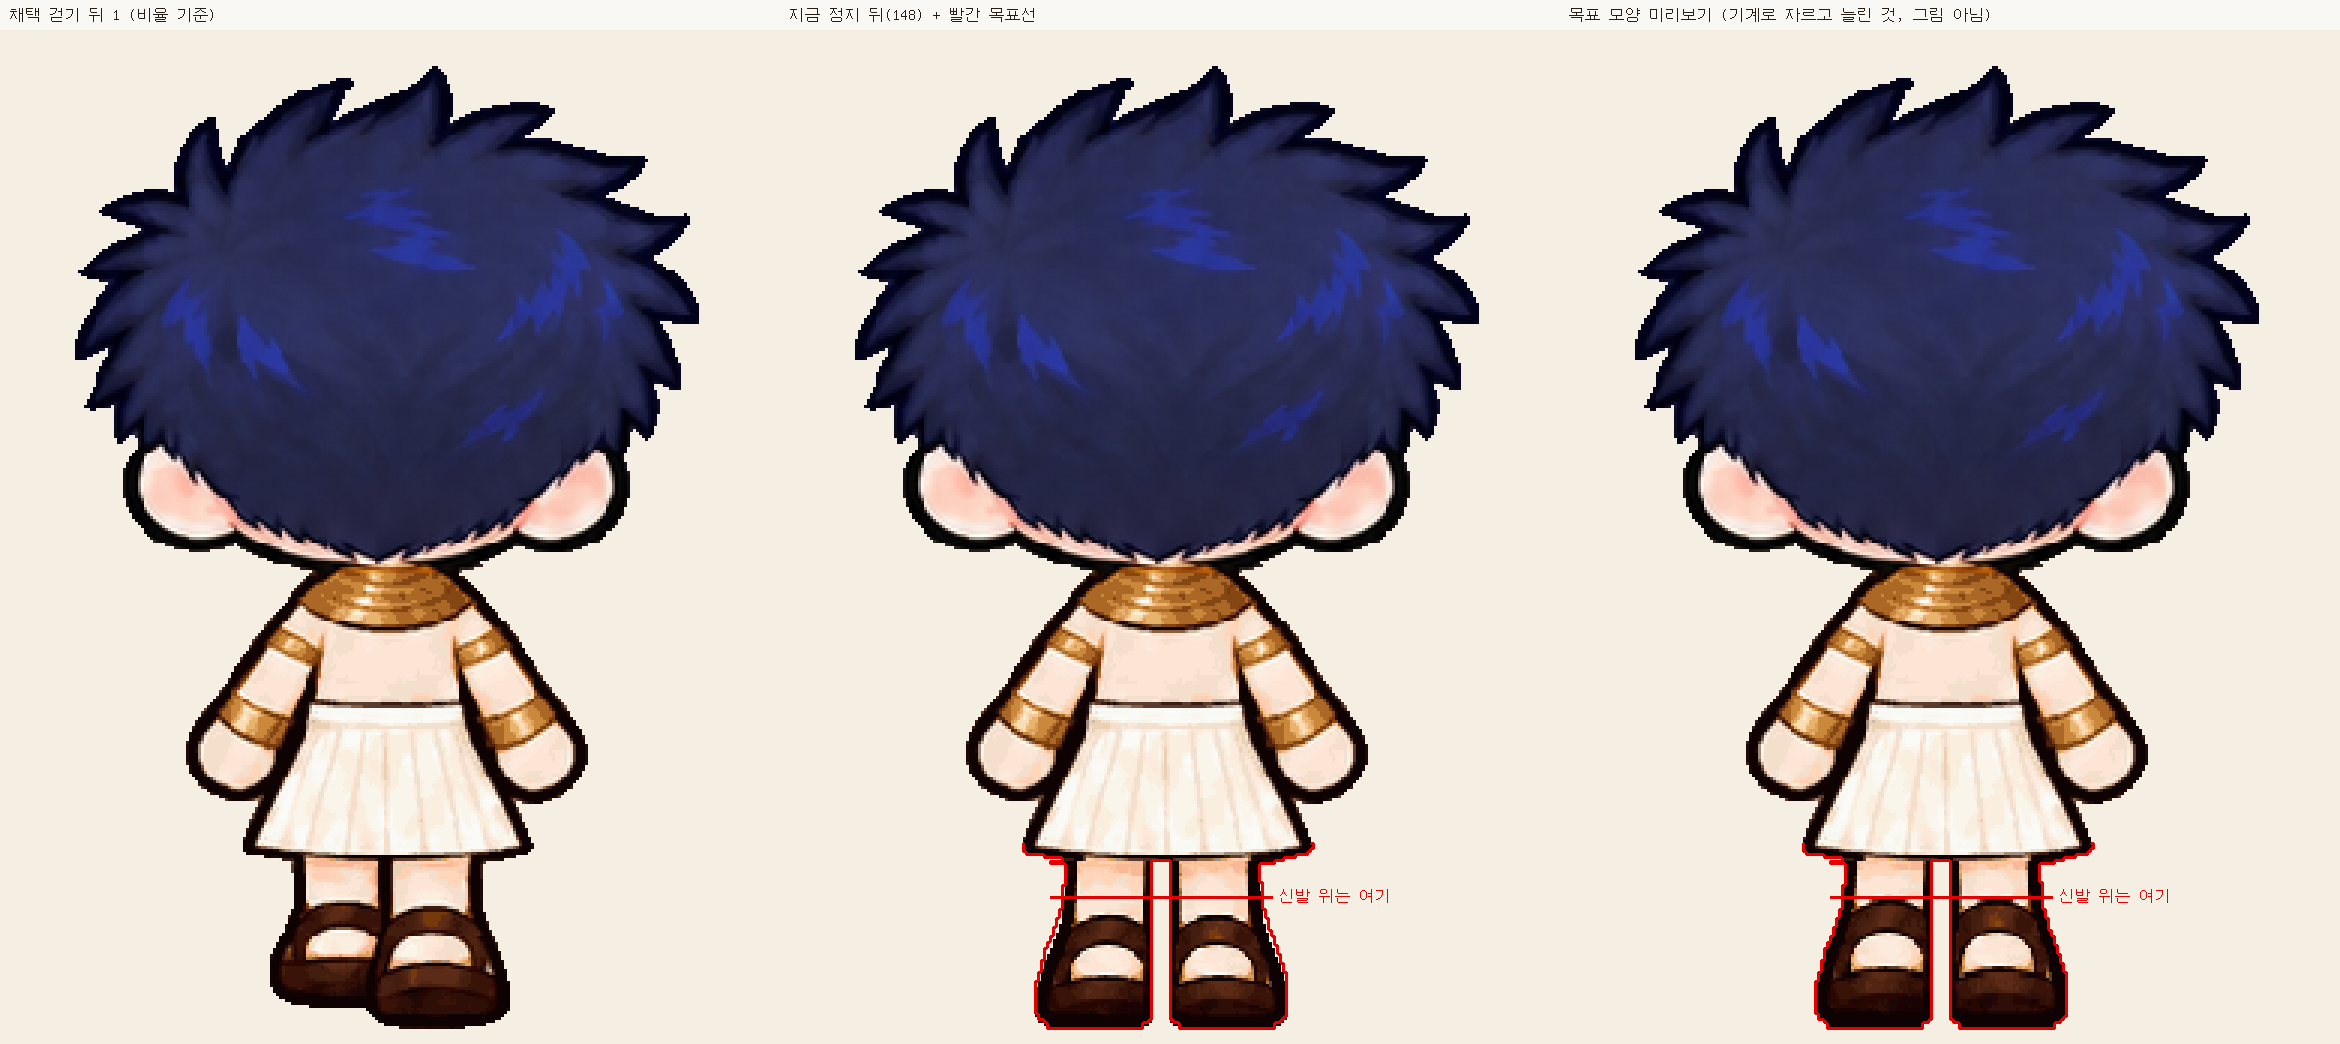
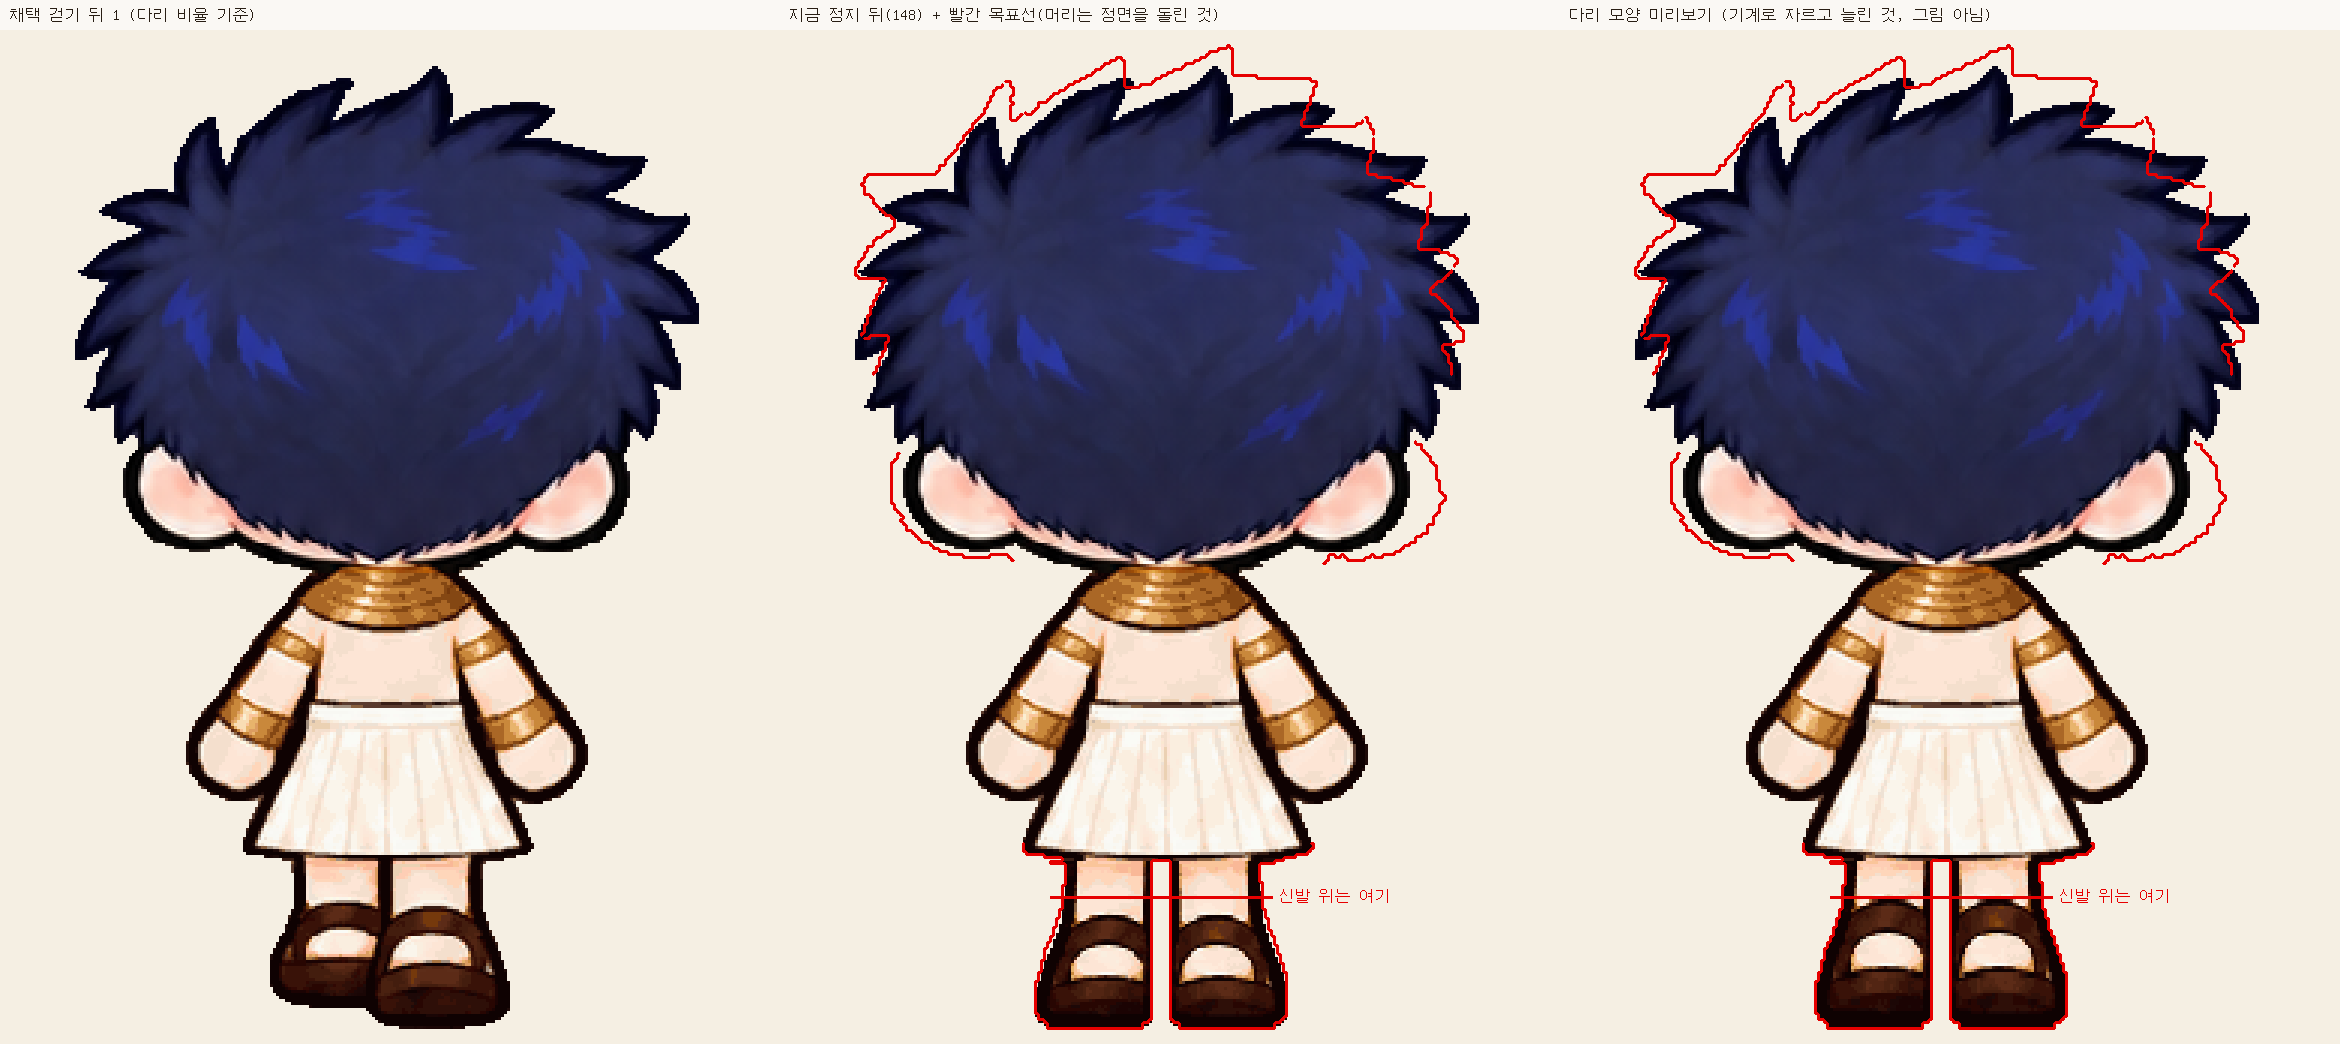
호루스 뒤 머리 목표선: 정면 사용자 머리를 돌려 목걸이로 맞춤, 정지·걷기 뒤 3장
Claude-Session: https://claude.ai/code/session_01VEprA6JeTcQVX6tKD4oAcT

diff --git a/tools/art/horus-idle-target.py b/tools/art/horus-idle-target.py
@@ -69,6 +69,58 @@ def lower_body_back(path):
             'legRows': y - legs, 'sandalRows': bottom - y + 1}, im
 
 
+def collar(rgba):
+    # the gold collar's top row and middle: the same on the front and the back, so it anchors one to the other
+    a = rgba[..., 3] > 128
+    h, s, v = ch.hsv(rgba[..., :3].astype(float) / 255)
+    gold = (h > 0.08) & (h < 0.15) & (s > 0.45) & (v > 0.35) & a
+    ys = np.nonzero(a.any(1))[0]; top, H = ys.min(), ys.max() - ys.min() + 1
+    for y in range(int(top + 0.55 * H), int(top + 0.75 * H)):  # below the eyes, which are gold too
+        if gold[y].sum() > 15:
+            xs = np.nonzero(gold[y:y + 6].any(0))[0]
+            return y, (xs.min() + xs.max()) / 2
+    raise SystemExit('목걸이를 못 찾음')
+
+
+def shift(mask, dy, dx):
+    out = np.zeros_like(mask)
+    H, W = mask.shape
+    ys, xs = np.nonzero(mask)
+    ys = ys + dy; xs = xs + dx
+    ok = (ys >= 0) & (ys < H) & (xs >= 0) & (xs < W)
+    out[ys[ok], xs[ok]] = True
+    return out
+
+
+def back_head(front_path, back_rgba):
+    # the user's front head, hair and ears, turned round: mirrored about the collar's middle and set on the back
+    # picture by the collar's top. From behind there is no hairline; the outer outline and the ears carry over.
+    g = ch.guide()
+    rgb, b = ch.load(front_path)
+    e, _, _ = ch.eyes(rgb, b)
+    head, _ = ch.place(g['head'], g['eyes'], e, b.shape)
+    hair, _ = ch.place(g['sil'], g['eyes'], e, b.shape)
+    ears, _ = ch.place(g['ears'], g['eyes'], e, b.shape)
+    fy, fx = collar(np.asarray(Image.open(front_path).convert('RGBA')))
+    by, bx = collar(back_rgba)
+    W = b.shape[1]
+    s_ = int(round(fx + bx - (W - 1)))
+    turn = lambda m: shift(m[:, ::-1], int(by - fy), s_)
+    return turn(head), turn(hair), turn(ears)
+
+
+def head_offset(ref, rgba, cut):
+    # how far a walk frame's head sits from the reference's: best overlap of the opaque head above the collar
+    a = ref[..., 3] > 128; b = rgba[..., 3] > 128
+    a = a[:cut]; best = (0, 0, -1)
+    for dy in range(-8, 9):
+        for dx in range(-10, 11):
+            m = shift(b[:cut + 10], dy, dx)[:cut]
+            sc = (a & m).sum() - 0.5 * (a ^ m).sum()
+            if sc > best[2]: best = (dy, dx, sc)
+    return best[0], best[1]
+
+
 def back(o):
     I, idle = lower_body_back(o.idle)
     W, walk = lower_body_back(o.walk)
@@ -88,18 +140,28 @@ def back(o):
     k = 3
     st = I['legsStart'] + legs_n
     y0, y1 = I['top'] - 12, I['sole'] + 6
-    def tile(rgba, line):
+    front = os.path.join(ART, 'review-horus-idle-v156', 'horus-front.png')
+    bhead, bhair, bears = back_head(front, idle)
+    Image.fromarray((bhead * 255).astype(np.uint8)).save(os.path.join(OUT, 'idle-back-head-mask.png'))
+    kb = lambda m: np.kron(m, np.ones((k, k), bool))
+    def head_line(hd, hr, er):
+        # the hair's outer outline and the ears' outline; the nape is left as drawn
+        hd, hr, er = kb(hd), kb(hr), kb(er)
+        return ch.edge(hd) & (ch.grow(hr, k) & ~er | er & ~ch.grow(hr, k))
+    def tile(rgba, line, heads_=None):
         base = Image.new('RGBA', (rgba.shape[1], rgba.shape[0]), (245, 239, 227, 255))
         base.alpha_composite(Image.fromarray(rgba))
         big = np.asarray(base.convert('RGB').resize((rgba.shape[1] * k, rgba.shape[0] * k), Image.NEAREST)).copy()
         if line:
-            # the lower body only: from the kilt down; everything above stays as drawn
-            m = np.kron(body, np.ones((k, k), bool)); ln = ch.edge(m)
+            # the lower body from the kilt down, and the head turned round from the user's front
+            m = kb(body); ln = ch.edge(m)
             ln[:(I['kiltEnd'] - 4) * k] = False
             big[ch.grow(ln, 1)] = (230, 0, 0)
+        if heads_ is not None:
+            big[ch.grow(head_line(*heads_), 1)] = (230, 0, 0)
         return Image.fromarray(big[y0 * k:y1 * k, 50 * k:310 * k])
-    tiles = [tile(walk, False), tile(idle, True), tile(new, True)]
-    heads = ['채택 걷기 뒤 1 (비율 기준)', '지금 정지 뒤(148) + 빨간 목표선', '목표 모양 미리보기 (기계로 자르고 늘린 것, 그림 아님)']
+    tiles = [tile(walk, False), tile(idle, True, (bhead, bhair, bears)), tile(new, True, (bhead, bhair, bears))]
+    heads = ['채택 걷기 뒤 1 (다리 비율 기준)', '지금 정지 뒤(148) + 빨간 목표선(머리는 정면을 돌린 것)', '다리 모양 미리보기 (기계로 자르고 늘린 것, 그림 아님)']
     tw, th = tiles[0].size
     sheet = Image.new('RGB', (tw * 3, th + 30), (250, 248, 244))
     d = ImageDraw.Draw(sheet)
@@ -112,6 +174,18 @@ def back(o):
             d.line([(x0, y), (x1, y)], fill=(230, 0, 0), width=3)
             d.text((x1 + 6, y - 10), '신발 위는 여기', fill=(230, 0, 0), font=ch.FONT)
     sheet.save(os.path.join(OUT, 'idle-back-target.png'))
+    cut = collar(idle)[0]
+    frames = []
+    for i in range(3):
+        wp = os.path.join(ch.WALK, f'horus-back-{i}.png')
+        wr = np.asarray(Image.open(wp).convert('RGBA'))
+        dy, dx = head_offset(idle, wr, cut)
+        hd, hr, er = (shift(m, -dy, -dx) for m in (bhead, bhair, bears))
+        Image.fromarray((hd * 255).astype(np.uint8)).save(os.path.join(OUT, f'walk-back-{i}-head-mask.png'))
+        t = tile(wr, False, (hd, hr, er))
+        t.save(os.path.join(OUT, f'walk-back-{i}-target.png')); frames.append(t)
+    seq = [frames[j] for j in (0, 1, 2, 1)]
+    seq[0].save(os.path.join(OUT, 'walk-back-target.gif'), save_all=True, append_images=seq[1:], duration=360, loop=0)
     info = {'idle': os.path.relpath(o.idle, ch.ROOT), 'walk': os.path.relpath(o.walk, ch.ROOT), 'idleNow': I, 'walkFrame': W,
             'target': {'kiltEnd': I['kiltEnd'], 'legRows': legs_n, 'sandalTop': st, 'sandalRows': sandal_n, 'sole': I['sole']}}
     json.dump(info, open(os.path.join(OUT, 'idle-back-target.json'), 'w'), ensure_ascii=False, indent=1, default=int)

diff --git a/docs/ASTRA-HANDOFF.md b/docs/ASTRA-HANDOFF.md
@@ -99,7 +99,7 @@
 | 긴 회랑5장 | 아트 전부 채택 완료. 적용 대상은5절의139~143번. 게임 적용과 이동·충돌·가림 확인은 오푸스 담당 |
 | 셋소호 정면 정지 선택·GIF | **[150 선택 정면3장](art/chibi-refresh/selected-front-idle-v150/README.md)**: 소망은 사용자가 올린 최종 시안 실제 원본, 세트·호루스는148 정면. 그림 수정 없이 복사하여 채택 걷기와 GIF 구성.149 소망 반려·재사용 금지. 다른 방향 정지의 전체 승인은 별개. 게임 미적용. |
 | 소망 뒤 정지·옷색 / 세트 정면 | [151 검토본](art/chibi-refresh/review-somang-back-v151/README.md). 소망 뒤는 사용자 명시 요청으로 재작화하되 최종 정면 전체 비율·색·도트 기준 유지. 소망 앞뒤 옷색을 걷기·좌우에 맞춤(반대 아님). 세트는 최종 정면 실제 원본을 복사해 GIF 비교. 호루스·걷기·좌우 그대로. 151 채택 대기, 게임 미적용. |
-| 호루스 사용자 수정도 | **155 반려·재사용 금지.** 다리 단축은 **정지 정면만** 해당한다. 채택 걷기 몸·다리·신발·치마 동작은 변경하지 않는다. 먼저 실제 정지 정면 한 장을 보여준다(걷기1을 정지로 제시 금지). 사용자 수정도의 머리 바깥 윤곽을 정확히 맞추고, 이마 높이를 지키면서 짧고 두툼한 헤어에 어울리게 경계를 완성한다. 걷기 적용 때는 원본 각 프레임의 머리 전체 위치·방향·변형과 얼굴/귀/목 접합을 먼저 확인한다. 고정 좌표 헤어 패치 덮어쓰기 금지. 기준 걷기 원본은 `review-trio-walk-v5/walk/`에 보존돼 있다. **머리 모양 기준은 [horus-hair-guide](art/chibi-refresh/horus-hair-guide/README.md)**: 사용자 최종 수정본 `user-edit-final.jpg`(이전 수정본은 대체됨), 걷기 정면 프레임마다 머리가 있어야 할 자리(`targets/`)와 머리 이동 표. 이마선은 위치·높이만 사용자 수정본을 따르고, 선은 새로 그린다: 짧고 두툼한 머리 모양과 어울리게, 호루스 도트식 외곽선·명암으로 머리카락 끝이 이마에 내려오는 갈래를 그린다. 살색만 칠해 경계를 만들거나 사용자 수정본 픽셀을 붙여넣지 않는다. 귀는 양쪽 모두 사용자 그림처럼 윗부분까지 동그랗게 보이고 머리카락과 사이에 틈을 둔다(빨간 선에 포함). 턱·얼굴 아래쪽은 고칠 대상이 아니라 빨간 선이 없다. 턱을 늘리거나 줄이지 않는다. 정면 정지 몸은 `targets/idle-front-target.png`대로 치마 아래 다리를 걷기처럼 9px로 줄이고 신발을 걷기 높이로 맞춘다(치마 끝·발바닥 위치 유지). 뒤 정지도 `targets/idle-back-target.png`대로 다리를 걷기 뒤처럼 12px(지금 18px)로 줄이고 신발을 걷기 높이로 맞춘다. 보내기 전에 `python3 tools/art/check-hair.py <후보>`로 바깥 외곽선과 이마선이 통과하는지 확인한다. 빨간 선에 맞춰 잘라내기만 하면 안 된다: 모양을 맞춘 뒤 머리 바깥 검은 외곽선과 명암을 도트식으로 다시 그린다. 가장자리 외곽선이 80% 미만이면 "외곽선 없음 (잘라만 냄)"으로 실패한다. 귀 외곽선은 사용자 그림처럼 필압 있는 선으로 그린다: 바깥 곡선과 아래쪽은 굵고 머리카락·얼굴 쪽으로 가늘어지는 매끈한 곡선. 1px 계단선, 뾰족한 귀 윗부분, 끊긴 선, 흰 점 금지. check-hair.py가 만드는 `-ears.png`에서 사용자 그림 귀와 나란히 보고 맞춘다. |
+| 호루스 사용자 수정도 | **155 반려·재사용 금지.** 다리 단축은 **정지 정면만** 해당한다. 채택 걷기 몸·다리·신발·치마 동작은 변경하지 않는다. 먼저 실제 정지 정면 한 장을 보여준다(걷기1을 정지로 제시 금지). 사용자 수정도의 머리 바깥 윤곽을 정확히 맞추고, 이마 높이를 지키면서 짧고 두툼한 헤어에 어울리게 경계를 완성한다. 걷기 적용 때는 원본 각 프레임의 머리 전체 위치·방향·변형과 얼굴/귀/목 접합을 먼저 확인한다. 고정 좌표 헤어 패치 덮어쓰기 금지. 기준 걷기 원본은 `review-trio-walk-v5/walk/`에 보존돼 있다. **머리 모양 기준은 [horus-hair-guide](art/chibi-refresh/horus-hair-guide/README.md)**: 사용자 최종 수정본 `user-edit-final.jpg`(이전 수정본은 대체됨), 걷기 정면 프레임마다 머리가 있어야 할 자리(`targets/`)와 머리 이동 표. 이마선은 위치·높이만 사용자 수정본을 따르고, 선은 새로 그린다: 짧고 두툼한 머리 모양과 어울리게, 호루스 도트식 외곽선·명암으로 머리카락 끝이 이마에 내려오는 갈래를 그린다. 살색만 칠해 경계를 만들거나 사용자 수정본 픽셀을 붙여넣지 않는다. 귀는 양쪽 모두 사용자 그림처럼 윗부분까지 동그랗게 보이고 머리카락과 사이에 틈을 둔다(빨간 선에 포함). 턱·얼굴 아래쪽은 고칠 대상이 아니라 빨간 선이 없다. 턱을 늘리거나 줄이지 않는다. 정면 정지 몸은 `targets/idle-front-target.png`대로 치마 아래 다리를 걷기처럼 9px로 줄이고 신발을 걷기 높이로 맞춘다(치마 끝·발바닥 위치 유지). 뒤 정지도 `targets/idle-back-target.png`대로 다리를 걷기 뒤처럼 12px(지금 18px)로 줄이고 신발을 걷기 높이로 맞춘다. 뒤 머리(정지·걷기 3장)는 정면 머리를 돌린 빨간 선(`idle-back-target.png`, `walk-back-<0|1|2>-target.png`)에 맞춰 바깥 외곽선과 귀를 고치고 뒷머리 명암을 도트식으로 다시 그린다. 보내기 전에 `python3 tools/art/check-hair.py <후보>`로 바깥 외곽선과 이마선이 통과하는지 확인한다. 빨간 선에 맞춰 잘라내기만 하면 안 된다: 모양을 맞춘 뒤 머리 바깥 검은 외곽선과 명암을 도트식으로 다시 그린다. 가장자리 외곽선이 80% 미만이면 "외곽선 없음 (잘라만 냄)"으로 실패한다. 귀 외곽선은 사용자 그림처럼 필압 있는 선으로 그린다: 바깥 곡선과 아래쪽은 굵고 머리카락·얼굴 쪽으로 가늘어지는 매끈한 곡선. 1px 계단선, 뾰족한 귀 윗부분, 끊긴 선, 흰 점 금지. check-hair.py가 만드는 `-ears.png`에서 사용자 그림 귀와 나란히 보고 맞춘다. |
 
 호루스 최신 검토본은 [157 정지 정면 한 장](art/chibi-refresh/review-horus-idle-v157/README.md), **사용자 확인 대기·게임 미적용**. 최종 사용자 머리 목표선에 맞춘 바깥 검은 외곽선·도트 명암·이마선·양쪽 귀, 정지 다리9px/신발329~366행. 최신 check-hair는 ‘사용자 모양과 같음’, 검은 외곽선89%. 턱·목·몸통·치마와 걷기 원본은 보존. 156은 머리 검사 실패한 이전 검토본이며 베이스로 확대 적용하지 않는다. **사용자가157 정면을 오케이한 후에만 걷기 정면3장을 각 프레임 목표선에 맞춰 진행한다.** 뒤 정지도 후속이며 현재 만들지 않았다.155 반려 상태 유지.
 | 개별 수정 검토 | 소망 피부121번, 호루스 이마 경계132번은 별도 채택 확인 전. 최종 정지 시안을 자동 교체하지 않는다 |

diff --git a/docs/art/chibi-refresh/horus-hair-guide/README.md b/docs/art/chibi-refresh/horus-hair-guide/README.md
@@ -86,11 +86,19 @@
 **목표.**
 - 다리를 6px 줄인다.
 - 신발은 걷기 뒤 신발 높이로 키운다.
-- 치마 끝과 발바닥은 그대로 둔다. 머리와 몸 위쪽은 손대지 않는다.
+- 치마 끝과 발바닥은 그대로 둔다.
+
+**뒤 머리.** 사용자 그림은 정면뿐이라 뒷모습 머리는 정면 머리를 돌려서 만든다.
+- 정면 정지에 맞춘 사용자 머리 전체(머리카락, 귀)를 좌우로 뒤집는다.
+- 금 목걸이의 가운데와 윗줄로 뒷모습 위에 맞춘다.
+- 빨간 선은 머리 바깥 외곽선과 양쪽 귀다. 뒤에서는 이마선이 없고, 뒷머리 아래 끝(목덜미)은 원래 그림 그대로 둔다.
+- 머리 위끝과 가닥 모양을 정면과 같게 맞춘다. 뒷머리 안쪽 명암과 결은 새 외곽선에 맞춰 도트식으로 다시 그린다.
+- 걷기 뒤 세 장(`walk-back-<0|1|2>-target.png`, `walk-back-target.gif`)은 프레임마다 머리 위치를 맞춰 같은 선을 옮겨 놓았다.
 
 | 파일 | 내용 |
 |---|---|
-| `idle-back-target.png` | 왼쪽은 걷기 뒤 1. 가운데는 지금 정지 뒤 + 빨간 목표선(치마 아래만). 오른쪽은 모양 미리보기(그림 아님) |
+| `idle-back-target.png` | 왼쪽은 걷기 뒤 1. 가운데는 지금 정지 뒤 + 빨간 목표선(머리, 귀, 치마 아래). 오른쪽은 다리 모양 미리보기(그림 아님) |
+| `walk-back-<0|1|2>-target.png`, `walk-back-target.gif`, `*-head-mask.png` | 채택 걷기 뒤 세 장에 프레임별로 맞춘 머리·귀 빨간 선과 재생 GIF, 머리 실루엣 |
 | `idle-back-body-mask.png`, `idle-back-shape-preview.png`, `idle-back-target.json` | 목표 몸 실루엣, 기계로 만든 모양 확인용, 수치 |
 
 다시 만들기: `python3 tools/art/horus-idle-target.py --back`
